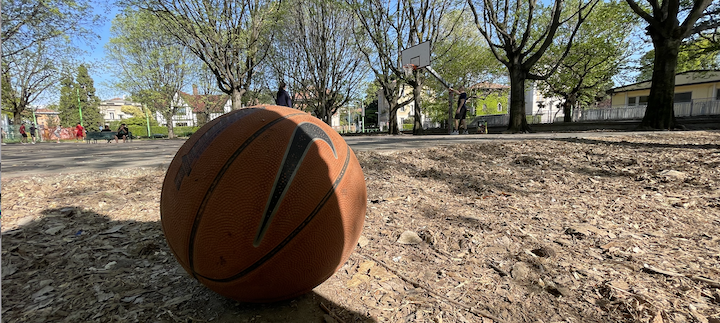
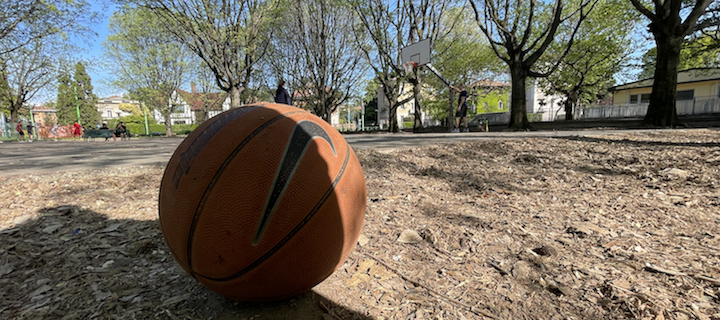
better playground image

diff --git a/README.md b/README.md
@@ -1,5 +1,5 @@
 <p align="center">
-    <img width="70%" src="static/playground.png" alt>
+    <img width="100%" src="static/playground.png" alt>
 </p>
 
 # **classifier-playground**
